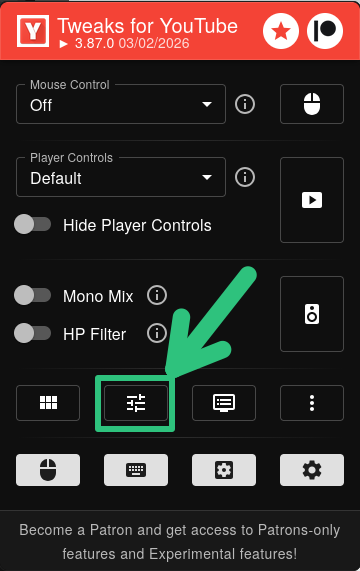
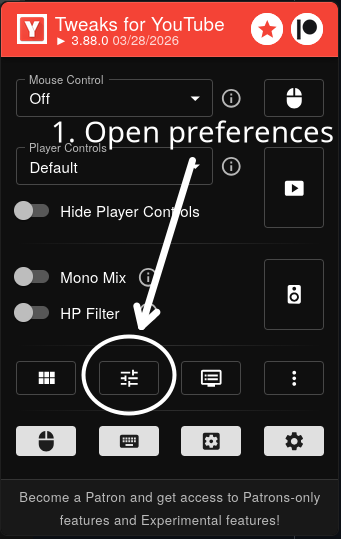
💄 (feat): Update Tweaks guide to image

diff --git a/README.md b/README.md
@@ -16,23 +16,21 @@ Based in the [forum discussion](https://forum.obsidian.md/t/web-clipper-youtube-
 <div align="center" style="display:flex;justify-content:center;gap:10px;">
 
 <div style="text-align:center">
-  <h3>1. Only Transcription</h3>
-  <a href="2.1v.json" download><img src="assets/raw.png" width="400"/></a>
+  <h3>Raw Transcription</h3>
+  <a href="2.1v.json" download><img src="assets/raw.png" width="300"/></a>
 </div>
 
 <div style="text-align:center">
-  <h3>2. Timestamps</h3>
-  <a href="2.2v.json" download><img src="assets/timestamp.png" width="400"/></a>
+  <h3>Timestamps</h3>
+  <a href="2.2v.json" download><img src="assets/timestamp.png" width="300"/></a>
 </div>
 
 </div>
 
 ## Downloading the Selected Template
 
-<div style="display:flex;align-items:center;gap:20px;">
-  <img src="assets/download.png" width="500"/>
-  <img src="assets/import-select.png" width="500"/>
-</div>
+<img src="assets/download.png" width="500"/>
+<img src="assets/import-select.png" width="700"/>
 
 #### STEP 1 - Open transcribe section automatically
 
@@ -51,23 +49,11 @@ After the template installation you need to open the transcription tab aways, yo
   </a>
 </div>
 
-#### STEP 2 - Configure YouTube Tweaks
+#### STEP 2 - YouTube Tweaks Setup
 
 <div style="display:flex;align-items:center;gap:20px;">
   <img src="assets/1-step.png" width="300"/>
-  <ol>
-    <li>Open the YouTube Tweaks extension.</li>
-    <li>Click on the "Preferences" button.</li>
-  </ol>
-</div>
-
-<div style="display:flex;align-items:center;gap:20px;">
   <img src="assets/2-step.png" width="300"/>
-  <ol start="3">
-    <li>Go to the bottom.</li>
-    <li>Click on "Customize".</li>
-    <li>All done.🙃</li>
-  </ol>
 </div>
 
 ### Contrubuiting
